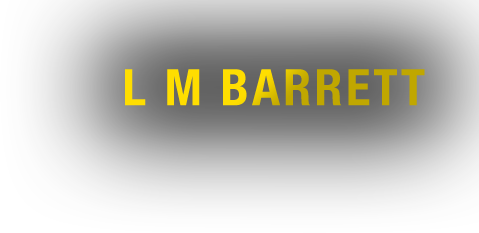
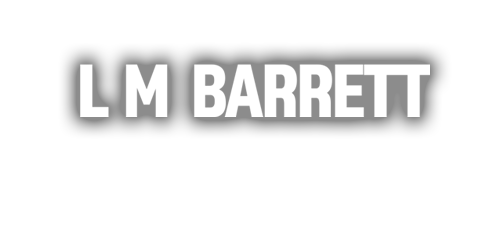
Updating fonts and styles in keeping with new cover

diff --git a/styles/base.css b/styles/base.css
@@ -1,3 +1,4 @@
+@import url("https://use.typekit.net/ted8ezg.css");
 /*
 YUI 3.4.1 (build 4118)
 Copyright 2011 Yahoo! Inc. All rights reserved.
@@ -3103,7 +3104,7 @@ body {
   color: white;
   padding: 0px;
   margin: 0px;
-  font-family: 'BodyFont', 'Helvetica', 'Arial', sans-serif;
+  font-family: alternate-gothic-no-1-d, sans-serif, 'BodyFont', 'Helvetica', 'Arial', sans-serif;
   font-size: 18px;
 }
 .side-bar,
@@ -3205,27 +3206,6 @@ body {
     }
   }
 }
-@font-face {
-  font-family: "BodyFont";
-  src: url("../assets/fonts/helvetica-condensed-bold-webfont.eot");
-  src: url("../assets/fonts/helvetica-condensed-bold-webfont.eot?#iefix") format('embedded-opentype'), url("../assets/fonts/helvetica-condensed-bold-webfont.svg?#BodyFont") format('svg'), url("../assets/fonts/helvetica-condensed-bold-webfont.woff") format('woff'), url("../assets/fonts/helvetica-condensed-bold-webfont.ttf") format('truetype');
-  font-weight: normal;
-  font-style: normal;
-}
-@font-face {
-  font-family: "HeaderFont";
-  src: url("../assets/fonts/helveticaneue-thin-webfont.eot");
-  src: url("../assets/fonts/helveticaneue-thin-webfont.eot?#iefix") format('embedded-opentype'), url("../assets/fonts/helveticaneue-thin-webfont.svg?#HeaderFont") format('svg'), url("../assets/fonts/helveticaneue-thin-webfont.woff") format('woff'), url("../assets/fonts/helveticaneue-thin-webfont.ttf") format('truetype');
-  font-weight: normal;
-  font-style: normal;
-}
-@font-face {
-  font-family: "ParagraphFont";
-  src: url("../assets/fonts/helveticaneue_medium-webfont.eot");
-  src: url("../assets/fonts/helveticaneue_medium-webfont.eot?#iefix") format('embedded-opentype'), url("../assets/fonts/helveticaneue_medium-webfont.svg?#ParagraphFont") format('svg'), url("../assets/fonts/helveticaneue_medium-webfont.woff") format('woff'), url("../assets/fonts/helveticaneue_medium-webfont.ttf") format('truetype');
-  font-weight: normal;
-  font-style: normal;
-}
 .main-container {
   max-width: 1050px;
   padding-left: 150px;
@@ -3265,9 +3245,12 @@ body {
 }
 .nav-item {
   list-style: none;
-  border-bottom: 1px solid white;
+  border-bottom: 1px solid rgba(255, 255, 255, 0.25);
   cursor: pointer;
   position: relative;
+}
+.nav-item a {
+  font-family: jeff-script;
 }
 .nav-item:hover {
   background-color: #ff6c00;
@@ -3389,7 +3372,7 @@ body {
   padding: 10px 15px;
   font-size: 15px;
   text-transform: uppercase;
-  font-family: 'BodyFont', 'Helvetica', 'Arial', sans-serif;
+  font-family: alternate-gothic-no-1-d, sans-serif, 'BodyFont', 'Helvetica', 'Arial', sans-serif;
   border: none;
   background-color: white;
 }
@@ -3405,8 +3388,8 @@ body {
   background: -webkit-linear-gradient(#ffe534, #aa9100);
   -webkit-background-clip: text;
   -webkit-text-fill-color: transparent;
-  font-family: 'BodyFont', 'Helvetica', 'Arial', sans-serif;
-  font-size: 25px;
+  font-family: almaq-refined, sans-serif, 'HeaderFont', 'Helvetica', 'Arial', sans-serif;
+  font-size: 30px;
   text-transform: uppercase;
 }
 .tag-line {
@@ -3420,7 +3403,7 @@ body {
 }
 @media (max-width: 470px) {
   .tag-line {
-    width: 100%;
+    width: 90%;
     background-size: contain;
     background-repeat: no-repeat;
   }
@@ -3431,6 +3414,7 @@ body {
   }
 }
 .buy-it-now {
+  font-family: almaq-refined, sans-serif, 'HeaderFont', 'Helvetica', 'Arial', sans-serif;
   cursor: pointer;
 }
 .buy-it-now:hover a {
@@ -3467,7 +3451,7 @@ body {
   padding: 15px 20px;
   font-size: 20px;
   text-transform: uppercase;
-  font-family: 'BodyFont', 'Helvetica', 'Arial', sans-serif;
+  font-family: almaq-refined, sans-serif, 'HeaderFont', 'Helvetica', 'Arial', sans-serif;
   border: none;
   background-color: white;
   color: black;
@@ -3513,23 +3497,24 @@ body {
   }
 }
 h1 {
-  font-family: 'HeaderFont', 'Helvetica', 'Arial', sans-serif;
+  font-family: almaq-refined, sans-serif, 'HeaderFont', 'Helvetica', 'Arial', sans-serif;
   font-size: 68px;
   text-transform: uppercase;
   margin-top: 30px;
 }
 .reflection {
-  color: #ffe534;
-  background: -webkit-linear-gradient(#ffe534, #aa9100);
-  -webkit-background-clip: text;
-  -webkit-text-fill-color: transparent;
-  font-family: 'BodyFont', 'Helvetica', 'Arial', sans-serif;
-  font-size: 33px;
-  display: block;
-}
-.sophie {
   color: #ffffff;
   background: -webkit-linear-gradient(#ffffff, #b3b3b3);
+  -webkit-background-clip: text;
+  -webkit-text-fill-color: transparent;
+  font-family: alternate-gothic-no-1-d, sans-serif, 'BodyFont', 'Helvetica', 'Arial', sans-serif;
+  font-size: 53px;
+  display: block;
+  margin-bottom: -20px;
+}
+.sophie {
+  color: #ffe534;
+  background: -webkit-linear-gradient(#ffe534, #aa9100);
   -webkit-background-clip: text;
   -webkit-text-fill-color: transparent;
   display: block;
@@ -3543,7 +3528,7 @@ h2 {
   margin-top: 30px;
 }
 h3 {
-  font-family: 'HeaderFont', 'Helvetica', 'Arial', sans-serif;
+  font-family: almaq-refined, sans-serif, 'HeaderFont', 'Helvetica', 'Arial', sans-serif;
   font-size: 28px;
   text-transform: uppercase;
   margin-top: 10px;
@@ -3560,7 +3545,7 @@ h4 {
 .intro,
 strong,
 a {
-  font-family: 'BodyFont', 'Helvetica', 'Arial', sans-serif;
+  font-family: almaq-refined, sans-serif, 'HeaderFont', 'Helvetica', 'Arial', sans-serif;
 }
 .intro {
   color: #ff6c00;
@@ -3572,7 +3557,7 @@ a {
   color: #ffe534;
 }
 p {
-  font-family: "ParagraphFont", "Times New Roman";
+  font-family: fira-sans;
   font-size: 16px;
   line-height: 22px;
   margin-bottom: 20px;
@@ -3592,7 +3577,7 @@ a.anchor {
   margin-left: -5px;
 }
 .reviewer {
-  font-family: 'BodyFont', 'Helvetica', 'Arial', sans-serif;
+  font-family: alternate-gothic-no-1-d, sans-serif, 'BodyFont', 'Helvetica', 'Arial', sans-serif;
 }
 #mc_embed_signup form {
   background-color: black;
@@ -3609,7 +3594,7 @@ a.anchor {
   padding: 15px 20px;
   font-size: 20px;
   text-transform: uppercase;
-  font-family: 'BodyFont', 'Helvetica', 'Arial', sans-serif;
+  font-family: alternate-gothic-no-1-d, sans-serif, 'BodyFont', 'Helvetica', 'Arial', sans-serif;
   border: none;
   background-color: white;
   color: black;
@@ -3645,7 +3630,7 @@ a.anchor {
   -webkit-text-fill-color: transparent;
 }
 .next {
-  font-family: 'HeaderFont', 'Helvetica', 'Arial', sans-serif;
+  font-family: almaq-refined, sans-serif, 'HeaderFont', 'Helvetica', 'Arial', sans-serif;
   font-size: 20px;
 }
 .sub-title {

diff --git a/styles/src/font-import.less b/styles/src/font-import.less
@@ -1,27 +1,29 @@
+@import url("https://use.typekit.net/ted8ezg.css");
 
-///////////////////////////////
-// mixin
-///////////////////////////////
-.import-font (@fontFamily, @fontNameMinusExtension, @fontWeight: normal, @fontStyle: normal){
-
-	@_bodyFontBaseUrl: "../assets/fonts/@{fontNameMinusExtension}";
-
-	@font-face {
-		font-family: @fontFamily;
-		src:url("@{_bodyFontBaseUrl}.eot");
-		src:url("@{_bodyFontBaseUrl}.eot?#iefix") format('embedded-opentype'),
-				url("@{_bodyFontBaseUrl}.svg?#@{fontFamily}") format('svg'),
-				url("@{_bodyFontBaseUrl}.woff") format('woff'),
-				url("@{_bodyFontBaseUrl}.ttf") format('truetype');
-		font-weight: @fontWeight;
-		font-style: @fontStyle;
-	}
-}
-
-///////////////////////////////
-// fonts
-///////////////////////////////
-
-.import-font("BodyFont", "helvetica-condensed-bold-webfont");
-.import-font("HeaderFont", "helveticaneue-thin-webfont");
-.import-font("ParagraphFont", "helveticaneue_medium-webfont");
+//
+/////////////////////////////////
+//// mixin
+/////////////////////////////////
+//.import-font (@fontFamily, @fontNameMinusExtension, @fontWeight: normal, @fontStyle: normal){
+//
+//	@_bodyFontBaseUrl: "../assets/fonts/@{fontNameMinusExtension}";
+//
+//	@font-face {
+//		font-family: @fontFamily;
+//		src:url("@{_bodyFontBaseUrl}.eot");
+//		src:url("@{_bodyFontBaseUrl}.eot?#iefix") format('embedded-opentype'),
+//				url("@{_bodyFontBaseUrl}.svg?#@{fontFamily}") format('svg'),
+//				url("@{_bodyFontBaseUrl}.woff") format('woff'),
+//				url("@{_bodyFontBaseUrl}.ttf") format('truetype');
+//		font-weight: @fontWeight;
+//		font-style: @fontStyle;
+//	}
+//}
+//
+/////////////////////////////////
+//// fonts
+/////////////////////////////////
+//
+//.import-font("BodyFont", "helvetica-condensed-bold-webfont");
+//.import-font("HeaderFont", "helveticaneue-thin-webfont");
+//.import-font("ParagraphFont", "helveticaneue_medium-webfont");

diff --git a/index.html b/index.html
@@ -823,13 +823,6 @@ Scripts
 ///////////////////////////////////////////////////////////////// -->
 
 <!-- ///////////////////////////////
-dev
-/////////////////////////////// -->
-
-
-<!--<script>document.write('<script src="http://' + (location.host || 'localhost').split(':')[0] + ':35729/livereload.js?snipver=1"></' + 'script>')</script>-->
-
-<!-- ///////////////////////////////
 google analytics
 /////////////////////////////// -->
 
@@ -892,5 +885,13 @@ google analytics
 	/////////////////////////////// -->
 	
 	<script type="text/javascript" src="//platform-api.sharethis.com/js/sharethis.js#property=5a302d36971cf80013ab1742&product=inline-share-buttons"></script>
+
+
+	<!-- ///////////////////////////////
+	dev
+	/////////////////////////////// -->
+
+	<script>document.write('<script src="http://' + (location.host || 'localhost').split(':')[0] + ':35729/livereload.js?snipver=1"></' + 'script>')</script>
+
 </body>
 </html>

diff --git a/styles/src/section.less b/styles/src/section.less
@@ -52,15 +52,16 @@ h1{
 	margin-top: 30px;
 }
 	.reflection{
-		.gradient-text(@yellow, @darkYellow);
+		.gradient-text(white, @lightGrey);
 
 		font-family: @bodyFont;
-		font-size: 33px;
+		font-size: 53px;
 		display: block;
+		margin-bottom: -20px;
 	}
 
 	.sophie{
-		.gradient-text(white, @lightGrey);
+		.gradient-text(@yellow, @darkYellow);
 
 		display: block;
 	}
@@ -100,7 +101,7 @@ h4{
 ///////////////////////////////
 
 .intro, strong, a {
-	font-family: @bodyFont;
+	font-family: @headerFont;
 }
 
 .intro{
@@ -114,7 +115,7 @@ strong, a{
 }
 
 p{
-	font-family: "ParagraphFont", "Times New Roman";
+	font-family: fira-sans; //@bodyFont; //"ParagraphFont", "Times New Roman";
 	font-size: 16px;
 	line-height: 22px;
 	margin-bottom: 20px;

diff --git a/styles/src/header.less b/styles/src/header.less
@@ -95,8 +95,8 @@
 		&.mobile{
 			.gradient-text(@yellow, @darkYellow);
 
-			font-family: @bodyFont;
-			font-size: 25px;
+			font-family: @headerFont;
+			font-size: 30px;
 			text-transform: uppercase;
 		}
 	}
@@ -119,7 +119,7 @@
 		background-image: url('../assets/images/tagline.png');
 
 		@media (max-width: 470px) {
-			width: 100%;
+			width: 90%;
 			background-size: contain;
 			background-repeat: no-repeat;
 		}

diff --git a/styles/src/variables.less b/styles/src/variables.less
@@ -35,5 +35,5 @@
 // fonts
 ///////////////////////////////
 
-@bodyFont: 'BodyFont', 'Helvetica', 'Arial', sans-serif;
-@headerFont: 'HeaderFont', 'Helvetica', 'Arial', sans-serif;
+@bodyFont: alternate-gothic-no-1-d, sans-serif, 'BodyFont', 'Helvetica', 'Arial', sans-serif;
+@headerFont: almaq-refined, sans-serif, 'HeaderFont', 'Helvetica', 'Arial', sans-serif;

diff --git a/styles/src/buy-it-now.less b/styles/src/buy-it-now.less
@@ -1,4 +1,5 @@
 .buy-it-now{
+	font-family: @headerFont;
 	cursor: pointer;
 
 	&:hover{
@@ -37,7 +38,7 @@
 	padding: 15px 20px;
 	font-size: 20px;
 	text-transform: uppercase;
-	font-family: @bodyFont;
+	font-family: @headerFont;
 	border: none;
 	background-color: white;
 	color: black;

diff --git a/styles/src/navigation.less b/styles/src/navigation.less
@@ -27,10 +27,13 @@
 	}
 
 	.nav-item{
+		a{
+			font-family: jeff-script;
+		}
 		//.transition(all, 0.25s);
 		list-style: none;
 
-		border-bottom: 1px solid white;
+		border-bottom: 1px solid fade(white, 25%);
 		cursor: pointer;
 		position: relative;
 
